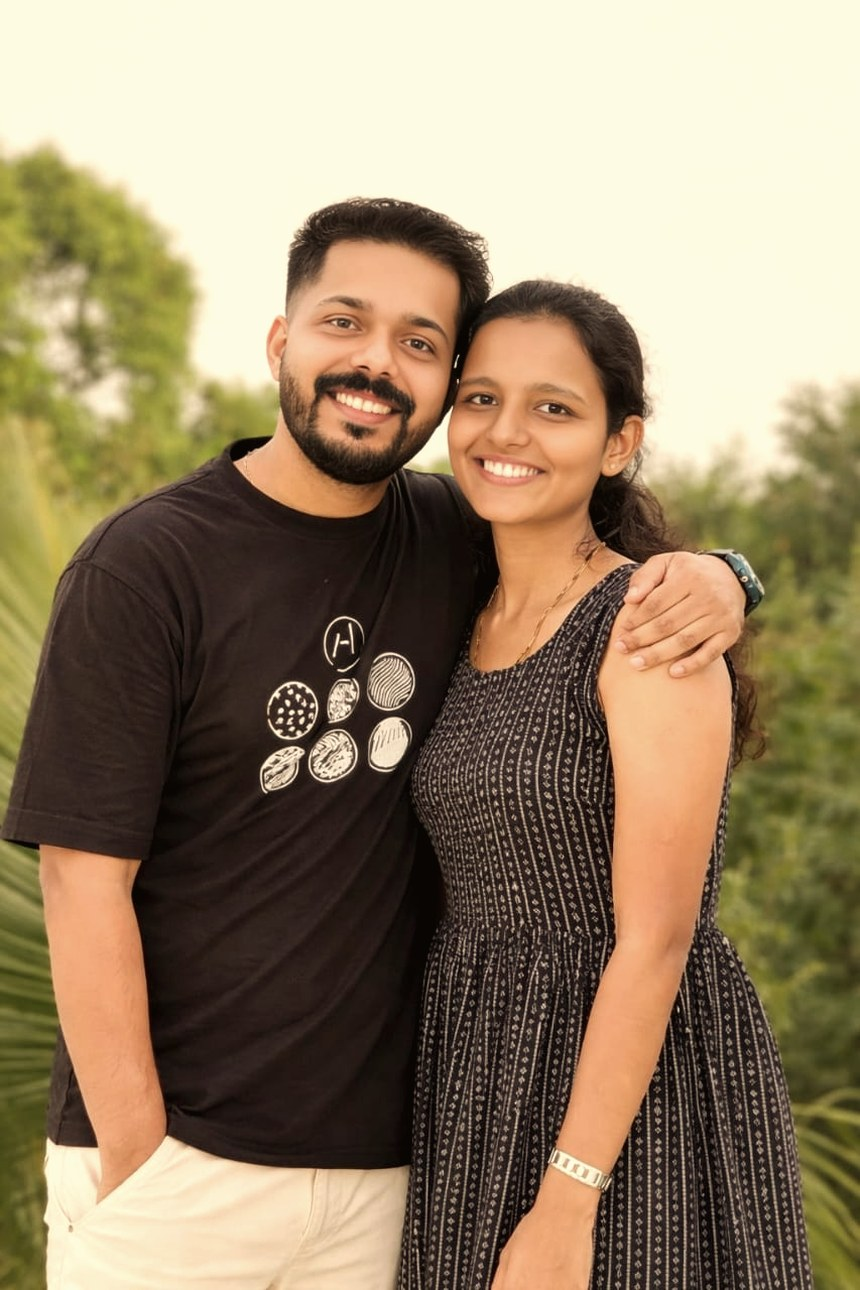
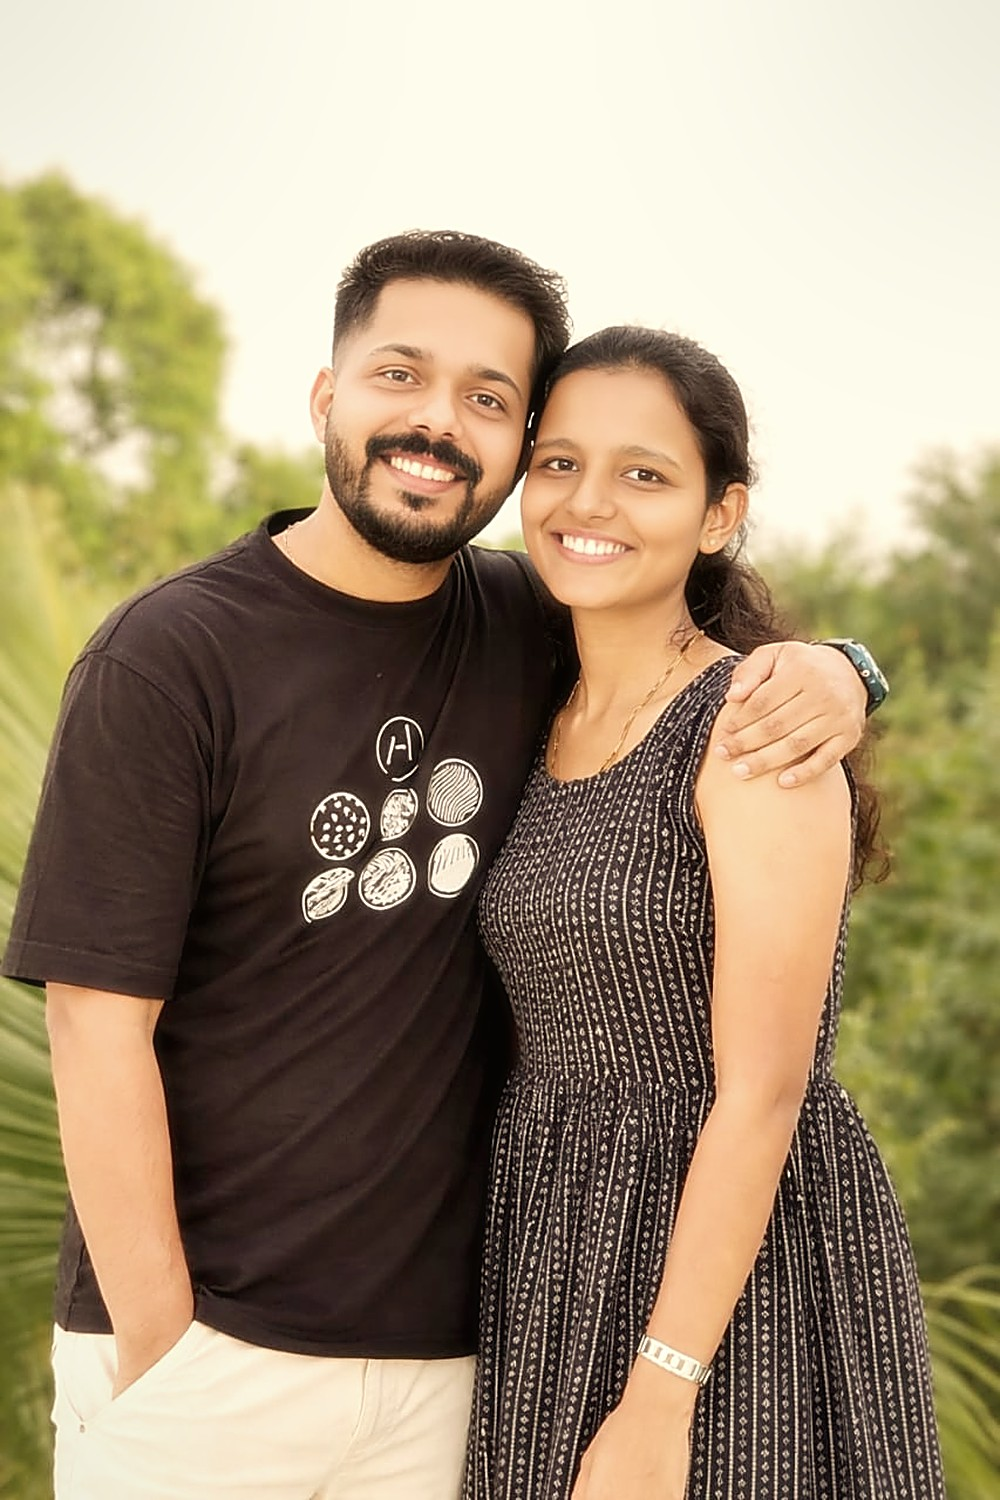
Wedding invite: editorial-grade couple photo in arched frame with caption

diff --git a/jins+sneha+marriage/style.css b/jins+sneha+marriage/style.css
@@ -435,28 +435,42 @@ img { display: block; max-width: 100%; }
 .portrait {
   position: relative;
   z-index: 1;
-  padding: 20px 24px 80px;
+  padding: 20px 24px 84px;
   display: flex;
   justify-content: center;
 }
 .portrait-frame {
-  width: min(420px, 86vw);
-  padding: 14px;
+  width: min(430px, 86vw);
+  padding: 16px 16px 22px;
   background: var(--card);
   border: 1px solid var(--gold-soft);
-  border-radius: 16px;
+  border-radius: 240px 240px 18px 18px;   /* elegant arch top */
   box-shadow: var(--shadow);
+  text-align: center;
   transition: transform 0.5s ease, box-shadow 0.5s ease;
 }
 .portrait-frame:hover {
   transform: translateY(-5px);
-  box-shadow: 0 22px 56px rgba(177, 138, 68, 0.22);
+  box-shadow: 0 24px 60px rgba(177, 138, 68, 0.24);
 }
-.portrait-frame img {
+.portrait-arch {
+  display: block;
+  border-radius: 226px 226px 10px 10px;
+  overflow: hidden;
+  /* thin gold inner ring for a matted, gallery feel */
+  box-shadow: inset 0 0 0 1px var(--gold-soft), 0 6px 18px rgba(74, 61, 39, 0.12);
+}
+.portrait-arch img {
   display: block;
   width: 100%;
   height: auto;
-  border-radius: 10px;
+}
+.portrait-caption {
+  font-family: var(--script);
+  font-size: 2rem;
+  color: var(--rose);
+  line-height: 1;
+  margin-top: 18px;
 }
 
 /* ---------- FAMILIES ---------- */

diff --git a/jins+sneha+marriage/index.html b/jins+sneha+marriage/index.html
@@ -90,7 +90,10 @@
   <!-- ===== Portrait ===== -->
   <section class="portrait">
     <figure class="portrait-frame reveal">
-      <img src="couple.jpg" alt="Jins and Sneha" loading="lazy" />
+      <span class="portrait-arch">
+        <img src="couple.jpg" alt="Jins and Sneha" loading="lazy" />
+      </span>
+      <figcaption class="portrait-caption">Jins &amp; Sneha</figcaption>
     </figure>
   </section>
 
